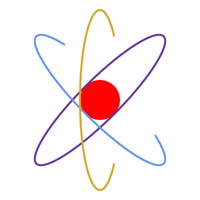
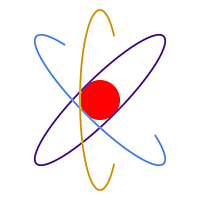
Apply sharpness in an attempt to lower the error threshold.

diff --git a/testbed/tests/widgets/test_canvas.py b/testbed/tests/widgets/test_canvas.py
@@ -2,7 +2,7 @@ import math
 from unittest.mock import Mock, call
 
 import pytest
-from PIL import Image
+from PIL import Image, ImageEnhance
 
 import toga
 from toga.colors import CORNFLOWERBLUE, GOLDENROD, REBECCAPURPLE, RED, WHITE, rgba
@@ -224,7 +224,11 @@ def assert_reference(probe, reference, threshold=0.0):
     """Assert that the canvas currently matches a reference image, within an RMS threshold"""
     # Get the canvas image.
     image = probe.get_image()
-    scaled_image = image.resize((200, 200))
+
+    # Rescale the image to 200x200, and apply a sharpness filter to minimize the impact
+    # of subpixel aliasing.
+    enhancer = ImageEnhance.Sharpness(image.resize((200, 200)))
+    scaled_image = enhancer.enhance(2)
 
     # Look for a platform-specific reference variant.
     reference_variant = probe.reference_variant(reference)
@@ -281,7 +285,7 @@ async def test_transparency(canvas, probe):
     # platform. You could also generate 0.1 threshold error by moving the entire image 1
     # px to the left. However, it's difficult to find a measure that passes the edge
     # issue without also passing a translation error.
-    assert_reference(probe, "transparency", threshold=0.1)
+    assert_reference(probe, "transparency", threshold=0.0)
 
 
 async def test_paths(canvas, probe):
@@ -302,7 +306,7 @@ async def test_paths(canvas, probe):
     canvas.context.stroke()
 
     await probe.redraw("Pair of triangles should be drawn")
-    assert_reference(probe, "paths", threshold=0.03)
+    assert_reference(probe, "paths", threshold=0.0)
 
 
 async def test_bezier_curve(canvas, probe):
@@ -319,7 +323,7 @@ async def test_bezier_curve(canvas, probe):
     canvas.context.stroke()
 
     await probe.redraw("Heart should be drawn")
-    assert_reference(probe, "bezier_curve", threshold=0.02)
+    assert_reference(probe, "bezier_curve", threshold=0.0)
 
 
 async def test_quadratic_curve(canvas, probe):
@@ -336,7 +340,7 @@ async def test_quadratic_curve(canvas, probe):
     canvas.context.stroke()
 
     await probe.redraw("Quote bubble should be drawn")
-    assert_reference(probe, "quadratic_curve", threshold=0.02)
+    assert_reference(probe, "quadratic_curve", threshold=0.0)
 
 
 async def test_arc(canvas, probe):
@@ -363,7 +367,7 @@ async def test_arc(canvas, probe):
     canvas.context.stroke()
 
     await probe.redraw("Smiley face should be drawn")
-    assert_reference(probe, "arc", threshold=0.02)
+    assert_reference(probe, "arc", threshold=0.0)
 
 
 async def test_ellipse(canvas, probe):
@@ -403,7 +407,7 @@ async def test_ellipse(canvas, probe):
     canvas.context.stroke(color=GOLDENROD)
 
     await probe.redraw("Atom should be drawn")
-    assert_reference(probe, "ellipse", threshold=0.02)
+    assert_reference(probe, "ellipse", threshold=0.0)
 
 
 async def test_rect(canvas, probe):
@@ -415,7 +419,7 @@ async def test_rect(canvas, probe):
     canvas.context.fill(color=REBECCAPURPLE)
 
     await probe.redraw("Filled rectangle should be drawn")
-    assert_reference(probe, "rect", threshold=0.02)
+    assert_reference(probe, "rect", threshold=0.0)
 
 
 async def test_fill(canvas, probe):
@@ -439,7 +443,7 @@ async def test_fill(canvas, probe):
     canvas.context.fill(color=CORNFLOWERBLUE, fill_rule=FillRule.EVENODD)
 
     await probe.redraw("Stars should be drawn")
-    assert_reference(probe, "fill", threshold=0.01)
+    assert_reference(probe, "fill", threshold=0.0)
 
 
 async def test_stroke(canvas, probe):
@@ -462,7 +466,7 @@ async def test_stroke(canvas, probe):
     canvas.context.stroke(color=CORNFLOWERBLUE)
 
     await probe.redraw("Stroke should be drawn")
-    assert_reference(probe, "stroke", threshold=0.02)
+    assert_reference(probe, "stroke", threshold=0.0)
 
 
 async def test_closed_path_context(canvas, probe):
@@ -478,7 +482,7 @@ async def test_closed_path_context(canvas, probe):
     canvas.context.stroke(color=REBECCAPURPLE, line_width=5, line_dash=[20, 30])
 
     await probe.redraw("Closed path should be drawn with context")
-    assert_reference(probe, "closed_path_context", threshold=0.02)
+    assert_reference(probe, "closed_path_context", threshold=0.0)
 
 
 async def test_fill_context(canvas, probe):
@@ -491,7 +495,7 @@ async def test_fill_context(canvas, probe):
         path.line_to(x=100, y=180)
 
     await probe.redraw("Fill should be drawn with context")
-    assert_reference(probe, "fill_context", threshold=0.01)
+    assert_reference(probe, "fill_context", threshold=0.0)
 
 
 async def test_stroke_context(canvas, probe):
@@ -507,7 +511,7 @@ async def test_stroke_context(canvas, probe):
         stroke.line_to(x=120, y=180)
 
     await probe.redraw("Stroke should be drawn with context")
-    assert_reference(probe, "stroke_context", threshold=0.01)
+    assert_reference(probe, "stroke_context", threshold=0.0)
 
 
 async def test_transforms(canvas, probe):
@@ -536,7 +540,7 @@ async def test_transforms(canvas, probe):
     canvas.context.fill()
 
     await probe.redraw("Transforms can be applied")
-    assert_reference(probe, "transforms", threshold=0.01)
+    assert_reference(probe, "transforms", threshold=0.0)
 
 
 async def test_write_text(canvas, probe):
@@ -607,7 +611,7 @@ async def test_write_text(canvas, probe):
     # 100% the wrong color. However, fonts are the worst case for evaluating with
     # RMSE, as they are 100% edges; and due to minor font rendering discrepancies
     # and antialiasing introduced by image scaling, edges are the source of error.
-    assert_reference(probe, "write_text", threshold=0.07)
+    assert_reference(probe, "write_text", threshold=0.0)
 
 
 async def test_multiline_text(canvas, probe):
@@ -629,4 +633,4 @@ async def test_multiline_text(canvas, probe):
     # 100% the wrong color. However, fonts are the worst case for evaluating with
     # RMSE, as they are 100% edges; and due to minor font rendering discrepancies
     # and antialiasing introduced by image scaling, edges are the source of error.
-    assert_reference(probe, "multiline_text", threshold=0.09)
+    assert_reference(probe, "multiline_text", threshold=0.0)
